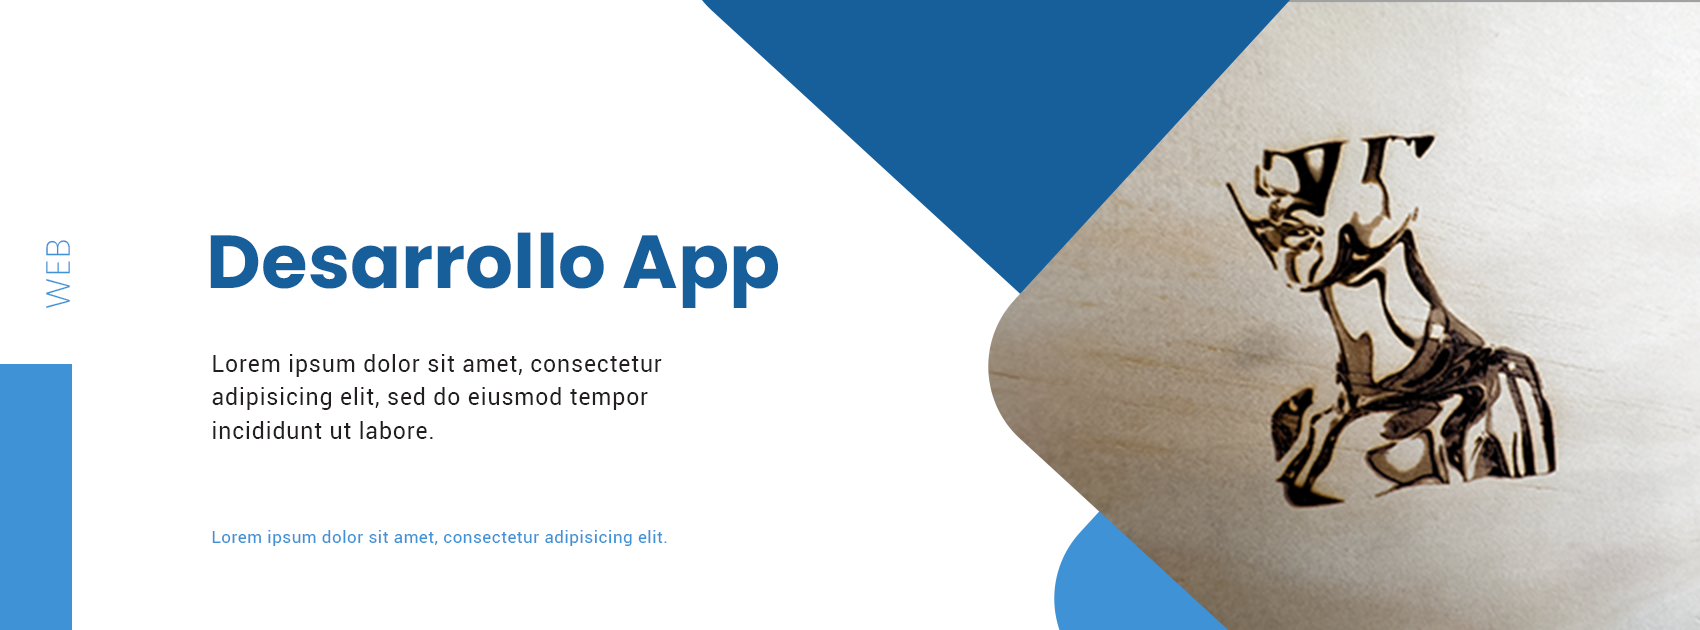
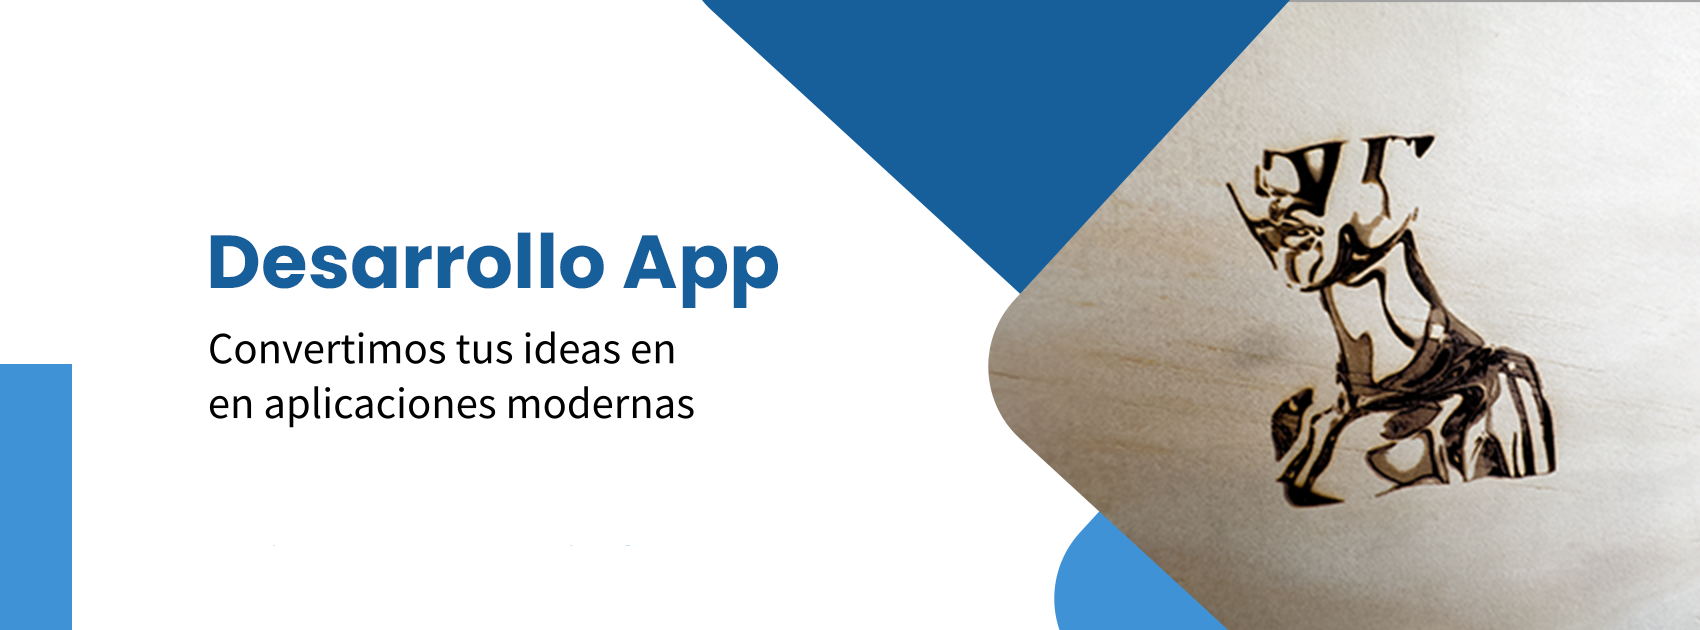
update services

Changed region(s): [[0.1247, 0.5429, 0.4053, 0.6937], [0.1247, 0.8444, 0.4053, 0.8746], [0.0312, 0.4524, 0.0624, 0.4825]]

diff --git a/src/app/prototipos/page.jsx b/src/app/prototipos/page.jsx
@@ -1,4 +1,6 @@
 import React from "react";
+import { Card, CardFooter, Image, Button } from "@nextui-org/react";
+import Link from "next/link";
 
 function page() {
   const apps = [
@@ -6,60 +8,59 @@ function page() {
       img: "/Tablas.jpg",
       title: "Tablas",
       description: "Descripción de la web 1...",
+      href: "/prototipos/tablas",
     },
     {
       img: "/Prototipado.jpg",
       title: "Prototipado",
       description: "Descripción de la web 2...",
+      href: "/prototipos/prototipado",
     },
     {
       img: "/Laser.jpg",
       title: "Laser",
       description: "Descripción de la web 3...",
+      href: "/prototipos/laser",
     },
     {
       img: "/3D.jpg",
       title: "Impresiones 3D",
       description: "Descripción de la web 4...",
+      href: "/prototipos/3d",
     },
   ];
 
   return (
     <main>
       <section>
-        <div className="bg-black h-[600px] w-full justify-center items-center flex">
-          <img src="/Artboard 1.png" className="w-full" alt="" />
+        <div className="flex items-center justify-center w-full bg-black">
+          <img src="/Artboard 2.png" className="w-full" alt="" />
         </div>
-        <div className="my-16">
+        <div className="my-16 mb-8">
           <h1 className="mb-8 text-6xl text-center text-black">
-            Lista de Prototipos Realizados
+            Lista de Prototipos Realizadas
           </h1>
           <div className="flex items-center justify-center">
             <div className="grid grid-cols-1 gap-4 md:grid-cols-2">
               {apps.map((app, index) => (
-                <div
-                  key={index}
-                  className="m-12 overflow-hidden bg-white rounded-lg md:w-[305px] shadow-black shadow-md"
-                >
-                  <div className="flex items-center justify-center h-48 bg-gray-200">
-                    <img
-                      src={app.img}
+                <Link href={app.href} key={index}>
+                  <Card
+                    key={index}
+                    isFooterBlurred
+                    radius="lg"
+                    className="m-4 border-none md:m-12"
+                  >
+                    <Image
                       alt={app.title}
-                      className="object-cover w-full h-full"
-                    />{" "}
-                  </div>
-                  <div className="p-4">
-                    <h2 className="text-2xl font-semibold">{app.title}</h2>
-                    <p className="mt-2 text-2xl text-gray-700">
-                      {app.description}
-                    </p>
-                  </div>
-                  <div className="flex justify-start p-4">
-                    <button className="px-12 py-2 text-white bg-blue-500 rounded hover:bg-blue-700">
-                      Ver más
-                    </button>
-                  </div>
-                </div>
+                      className="object-cover md:h-[700px] md:w-[400px] hover:scale-105 transition-transform duration-500 ease-in-out"
+                      src={app.img}
+                      width="100%"
+                    />
+                    <CardFooter className="absolute bottom-0 z-10 w-full py-8 text-center text-white bg-black bg-opacity-50">
+                      <p className="text-xl">{app.title}</p>
+                    </CardFooter>
+                  </Card>
+                </Link>
               ))}
             </div>
           </div>

diff --git a/src/app/web/page.jsx b/src/app/web/page.jsx
@@ -1,60 +1,56 @@
 import React from "react";
-
+import { Card, CardFooter, Image, Button } from "@nextui-org/react";
+import Link from "next/link";
 function page() {
   const apps = [
     {
       img: "/mockup1.png",
-      title: "Title 1",
-      description: "Descripción de la web 1...",
+      title: "Cetotj",
+      href: "https://cetotj.netlify.app/",
     },
     {
       img: "/mockup2.png",
-      title: "Title 2",
-      description: "Descripción de la web 2...",
+      title: "Medical-Commerce",
+      href: "https://medical-commerce.netlify.app/",
     },
     {
       img: "/mockup3.png",
-      title: "Title 3",
-      description: "Descripción de la web 3...",
+      title: "photography-john",
+      href: "https://photography-john.netlify.app/",
     },
   ];
 
   return (
     <main>
       <section>
-        <div className="bg-black h-[600px] w-full justify-center items-center flex">
+        <div className="flex items-center justify-center w-full bg-black">
           <img src="/Artboard 3.png" className="w-full" alt="" />
         </div>
-        <div className="my-16">
+        <div className="my-16 mb-8">
           <h1 className="mb-8 text-6xl text-center text-black">
             Lista de Paginas web Realizadas
           </h1>
           <div className="flex items-center justify-center">
             <div className="grid grid-cols-1 gap-4 md:grid-cols-2">
               {apps.map((app, index) => (
-                <div
-                  key={index}
-                  className="m-12 overflow-hidden bg-white rounded-lg md:w-[350px] shadow-black shadow-md"
-                >
-                  <div className="flex items-center justify-center h-48 bg-gray-200">
-                    <img
-                      src={app.img}
+                <Link href={app.href} key={index} target="_blank">
+                  <Card
+                    key={index}
+                    isFooterBlurred
+                    radius="lg"
+                    className="m-4 border-none md:m-12"
+                  >
+                    <Image
                       alt={app.title}
-                      className="object-cover w-full h-full"
+                      className="object-cover md:h-[700px] md:w-[400px] hover:scale-105 transition-transform duration-500 ease-in-out"
+                      src={app.img}
+                      width="100%"
                     />
-                  </div>
-                  <div className="p-4">
-                    <h2 className="text-2xl font-semibold">{app.title}</h2>
-                    <p className="mt-2 text-2xl text-gray-700">
-                      {app.description}
-                    </p>
-                  </div>
-                  <div className="flex justify-start p-4">
-                    <button className="px-12 py-2 text-white bg-blue-500 rounded hover:bg-blue-700">
-                      Ver más
-                    </button>
-                  </div>
-                </div>
+                    <CardFooter className="absolute bottom-0 z-10 w-full py-8 text-center text-white bg-black bg-opacity-50">
+                      <p className="text-xl">{app.title}</p>
+                    </CardFooter>
+                  </Card>
+                </Link>
               ))}
             </div>
           </div>

diff --git a/src/app/apps/page.jsx b/src/app/apps/page.jsx
@@ -1,56 +1,53 @@
 import React from "react";
-
+import { Card, Image, CardFooter } from "@nextui-org/react";
+import Link from "next/link";
 function page() {
   const apps = [
     {
       img: "/app1.png",
       title: "PetSafe",
       description: "Aplicacion para la adopcion de mascotas...",
+      href: "/apps/petsafe",
     },
     {
       img: "/app2.png",
       title: "Recipe-Book",
       description: "Aplicacion para recetas de cocina...",
+      href: "/apps/recipe-book",
     },
-    // { img: 'url-de-la-imagen-4', title: 'Title 4', description: 'Descripción de la aplicación 4...' },
   ];
 
   return (
     <main>
       <section>
-        <div className="bg-black h-[600px] w-full justify-center items-center flex">
+        <div className="flex items-center justify-center w-full bg-black">
           <img src="/Artboard 2.png" className="w-full" alt="" />
         </div>
-        <div className="my-16">
+        <div className="my-16 mb-8">
           <h1 className="mb-8 text-6xl text-center text-black">
             Lista de Apps Realizadas
           </h1>
           <div className="flex items-center justify-center">
             <div className="grid grid-cols-1 gap-4 md:grid-cols-2">
               {apps.map((app, index) => (
-                <div
-                  key={index}
-                  className="m-12 overflow-hidden bg-white rounded-lg md:w-[400px] shadow-black shadow-md"
-                >
-                  <div className="flex items-center justify-center h-48 bg-gray-200">
-                    <img
-                      src={app.img}
+                <Link href={app.href} key={index}>
+                  <Card
+                    key={index}
+                    isFooterBlurred
+                    radius="lg"
+                    className="m-4 border-none md:m-12"
+                  >
+                    <Image
                       alt={app.title}
-                      className="object-cover w-full h-full"
+                      className="object-cover md:h-[700px] md:w-[400px] hover:scale-105 transition-transform duration-500 ease-in-out"
+                      src={app.img}
+                      width="100%"
                     />
-                  </div>
-                  <div className="p-4">
-                    <h2 className="text-2xl font-semibold">{app.title}</h2>
-                    <p className="mt-2 text-2xl text-gray-700">
-                      {app.description}
-                    </p>
-                  </div>
-                  <div className="flex justify-start p-4">
-                    {/* <button className="px-12 py-2 text-white bg-blue-500 rounded hover:bg-blue-700">
-                      Ver más
-                    </button> */}
-                  </div>
-                </div>
+                    <CardFooter className="absolute bottom-0 z-10 w-full py-8 text-center text-white bg-black bg-opacity-50">
+                      <p className="text-xl">{app.title}</p>
+                    </CardFooter>
+                  </Card>
+                </Link>
               ))}
             </div>
           </div>

diff --git a/src/app/prototipos/[id]/page.jsx b/src/app/prototipos/[id]/page.jsx
@@ -1,0 +1,56 @@
+export function generateStaticParams() {
+  return [
+    { id: "tablas" },
+    { id: "prototipado" },
+    { id: "laser" },
+    { id: "3d" },
+  ];
+}
+
+export default function Page({ params }) {
+  const { id } = params;
+  const path = [
+    {
+      id: "petsafe",
+      image1: "/1.png",
+      image2: "/2.png",
+      image3: "/3.png",
+    },
+    {
+      id: "recipe-book",
+      image1: "/1.1.png",
+      image2: "/1.2.png",
+      image3: "/1.3.png",
+    },
+  ];
+
+  return (
+    <main>
+      <section>
+        <div className="flex items-center justify-center w-full bg-black">
+          <img src="/Artboard 2.png" className="w-full" alt="" />
+        </div>
+        <h1 className="my-4 text-4xl text-center text-black uppercase">{id}</h1>
+        <div className="flex items-center justify-center">
+          <div className="grid grid-cols-1 gap-4 md:grid-cols-3">
+            {path
+              .filter((app) => app.id === id)
+              .map((app, index) => (
+                <>
+                  <div key={index + "a"}>
+                    <img src={app.image1} className="w-full" alt="" />
+                  </div>
+                  <div key={index + "b"}>
+                    <img src={app.image2} className="w-full" alt="" />
+                  </div>
+                  <div key={index + "c"}>
+                    <img src={app.image3} className="w-full" alt="" />
+                  </div>
+                </>
+              ))}
+          </div>
+        </div>
+      </section>
+    </main>
+  );
+}

diff --git a/src/app/apps/[id]/page.jsx b/src/app/apps/[id]/page.jsx
@@ -1,0 +1,51 @@
+export function generateStaticParams() {
+  return [{ id: "petsafe" }, { id: "recipe-book" }];
+}
+
+export default function Page({ params }) {
+  const { id } = params;
+  const path = [
+    {
+      id: "petsafe",
+      image1: "/1.png",
+      image2: "/2.png",
+      image3: "/3.png",
+    },
+    {
+      id: "recipe-book",
+      image1: "/1.1.png",
+      image2: "/1.2.png",
+      image3: "/1.3.png",
+    },
+  ];
+
+  return (
+    <main>
+      <section>
+        <div className="flex items-center justify-center w-full bg-black">
+          <img src="/Artboard 2.png" className="w-full" alt="" />
+        </div>
+        <h1 className="my-4 text-4xl text-center text-black uppercase">{id}</h1>
+        <div className="flex items-center justify-center">
+          <div className="grid grid-cols-1 gap-4 md:grid-cols-3">
+            {path
+              .filter((app) => app.id === id)
+              .map((app, index) => (
+                <>
+                  <div key={index + "a"}>
+                    <img src={app.image1} className="w-full" alt="" />
+                  </div>
+                  <div key={index + "b"}>
+                    <img src={app.image2} className="w-full" alt="" />
+                  </div>
+                  <div key={index + "c"}>
+                    <img src={app.image3} className="w-full" alt="" />
+                  </div>
+                </>
+              ))}
+          </div>
+        </div>
+      </section>
+    </main>
+  );
+}
